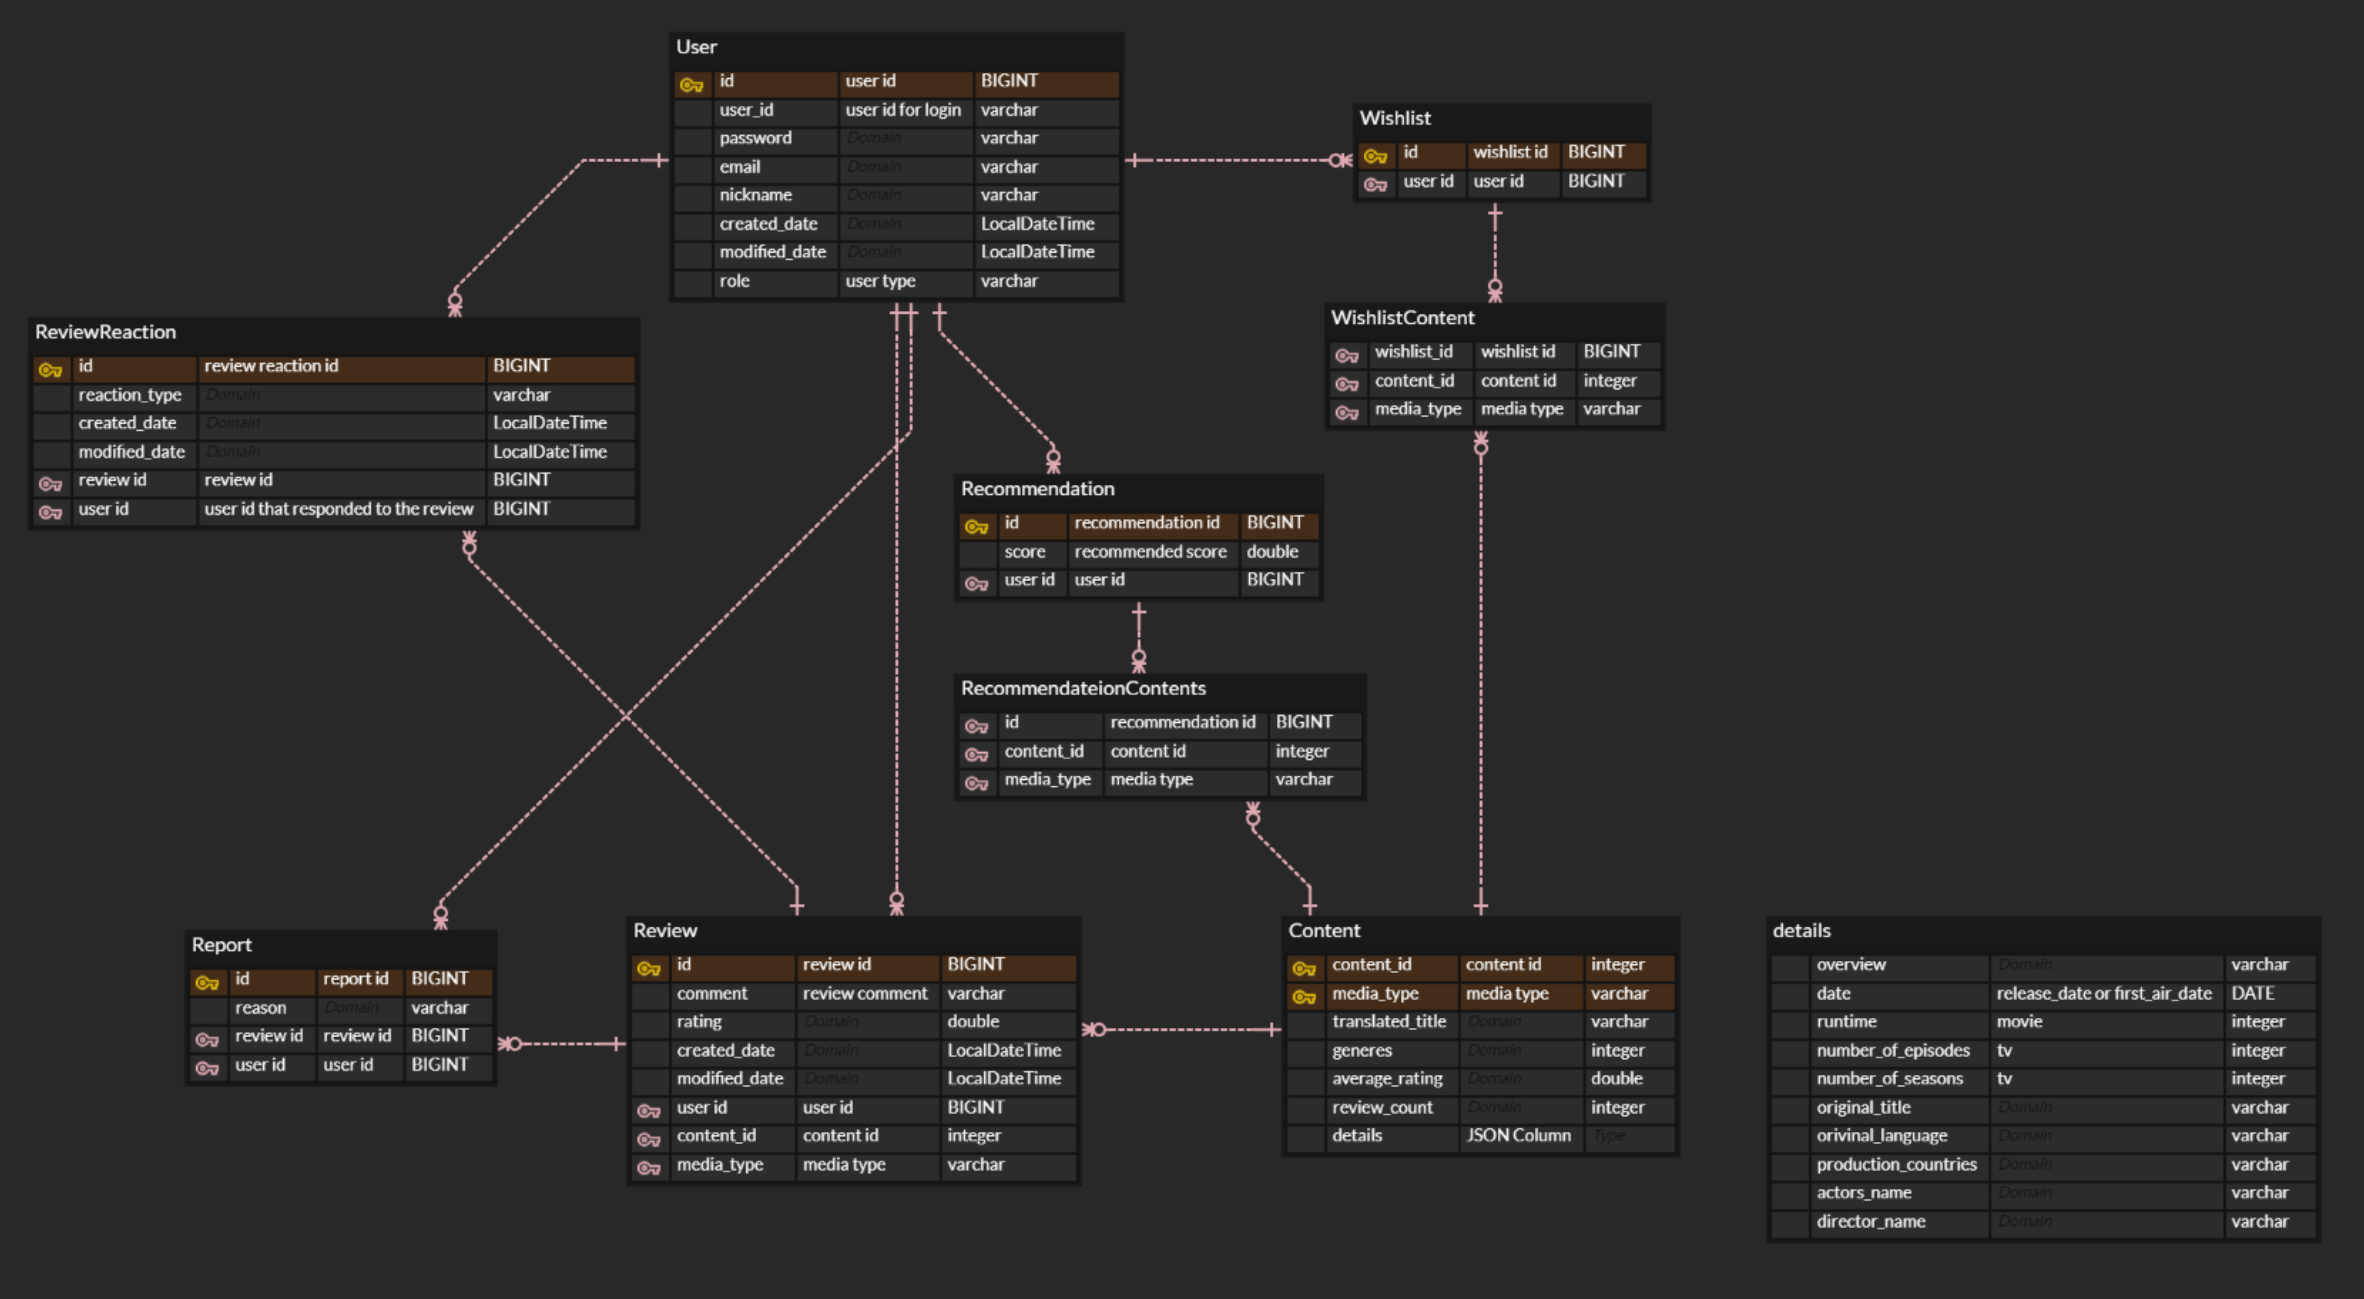
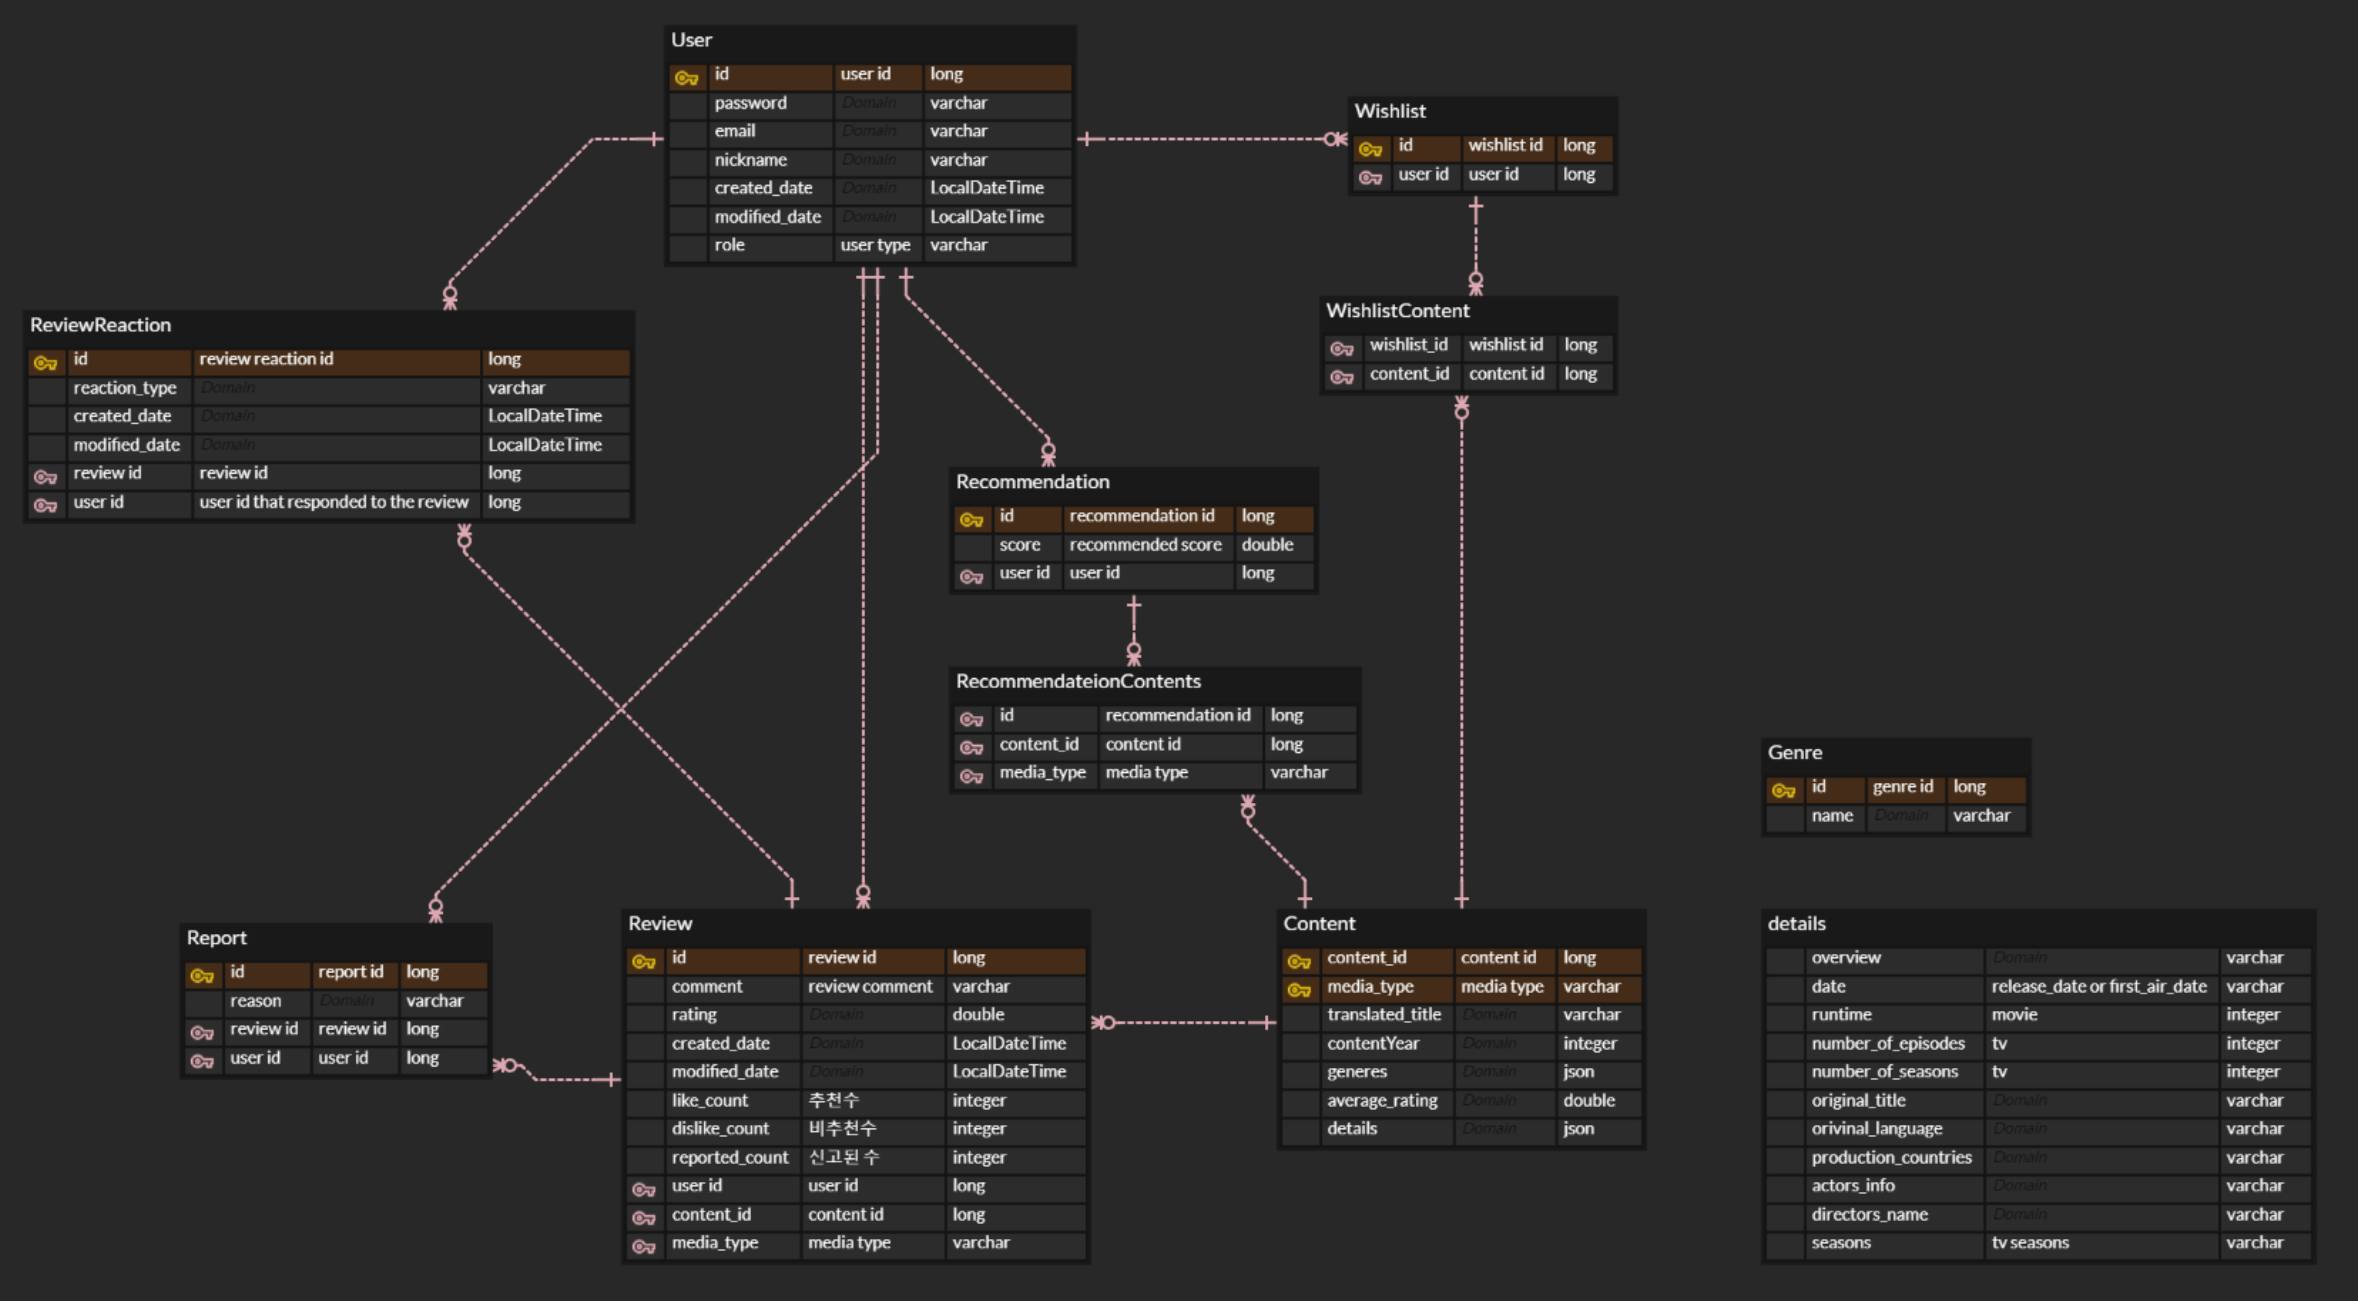
doc: modify README.md, ERD, TROUBLE_SHOOTING.md

diff --git a/README.md b/README.md
@@ -1,5 +1,5 @@
 # Content Service
-드라마, 영화와 같은 컨텐츠 정보 제공, 리뷰 및 평점, 추천 서비스를 제공하는 API
+드라마, 영화와 같은 컨텐츠 정보 제공, 리뷰 및 평점 서비스를 제공하는 API
 
 # 🧑💻Tech Stack
 <img src="https://img.shields.io/badge/java-007396?style=for-the-badge&logo=java&logoColor=white">
@@ -7,41 +7,36 @@
 <img src="https://img.shields.io/badge/springboot-6DB33F?style=for-the-badge&logo=springboot&logoColor=white">
 <img src="https://img.shields.io/badge/github-181717?style=for-the-badge&logo=github&logoColor=white">
 <img src="https://img.shields.io/badge/redis-DC382D?style=for-the-badge&logo=redis&logoColor=white">
-<img src="https://img.shields.io/badge/elasticsearch-005571?style=for-the-badge&logo=elasticsearch&logoColor=white">
 
 # 🗒프로젝트 기능 및 설계
 ### 회원 측 기능
 * [회원가입]
   * 이메일, 아이디, 비밀번호, 닉네임을 입력하여 회원가입합니다.
     * 이메일, 아이디, 닉네임은 유일해야 합니다.
-    * 일반적으로 모든 사용자는 회원가입시 USER 권한(일반 권한)을 지닙니다.
 * [로그인]
   * 사용자는 로그인을 할 수 있습니다. 
     * 회원가입때 사용한 아이디 및 패스워드가 일치해야합니다.
 * [내 정보 수정]
-    * 비밀번호 및 닉네임 변경 
+    * 이메일, 비밀번호, 닉네임 변경 
 * [회원탈퇴]
   * 회원은 계정을 삭제하여 탈퇴 할 수 있습니다.
-    * 회원 탈퇴 시 작성한 리뷰와 평점은 모두 삭제됩니다.
+  * DB에는 정보가 남아있으며 상태만 WITHDRAW로 변경됩니다.
 
 ### 컨텐츠 조회 기능
-* 검색하지 않아도 평점을 기반으로 Top10 목록을 제공합니다.
 * 사용자는 회원가입하지 않아도 리뷰나 평점을 볼 수 있습니다.
 * [컨텐츠 검색]
   * 아래 기준으로 사용자는 컨텐츠를 검색할 수 있습니다.
     * 제목
     * 배우
     * 감독
-    * 장르
 * [컨텐츠 상세 정보 보기]
-  * 컨텐츠 하나에 대한 상세정보를 얻을 수 있습니다. (api에서 가져옵니다)
+  * 컨텐츠 하나에 대한 상세정보를 얻을 수 있습니다.
     * 영화
       * 제목, 원제, 원어, 장르, 간단소개, 개요, 제작 국가, 개봉일, 상영시간
       * 감독 및 배우
     * TV 시리즈
-      * 제목, 원제, 원어, 장르, 간단소개, 개요, 제작 국가, 최초 방영일, 마지막 방영일, 방송사, 에피소드 개수, 시즌 개수
+      * 제목, 원제, 원어, 장르, 간단소개, 개요, 제작 국가, 최초 방영일, 마지막 방영일, 에피소드 개수, 시즌 개수
       * 감독 및 배우
-    * 배우는 상위 다섯 명만 보여줍니다.
 
 ### 보고싶어요 기능
 * 회원이 컨텐츠를 '보고싶어요'하면 wishlist에 담깁니다.
@@ -59,19 +54,21 @@
     * 이미 추천(비추천)한 리뷰를 또 추천(비추천) 한다면 추천(비추천)이 취소됩니다.
 * [리뷰 보기]
   * 사용자는 컨텐츠의 상세정보를 조회시 리뷰도 볼 수 있습니다.
-    * 리뷰는 추천순으로 정렬되며, 5개씩 페이징 처리하여 보여줍니다.
 
 ### 컨텐츠 추천 기능
-* 회원의 컨텐츠 평점 + 보고싶어요한 작품의 장르를 기반으로 컨텐츠를 추천합니다.
-
-### 관리자 측 기능
-* [관리자로 승인 하기]
-  * 초기 관리자는 일반 가입자를 관리자로 승격시킬 수 있습니다.
-* [리뷰 삭제]
-  * 신고가 15건 이상 들어온 리뷰에 대해 삭제할 수 있습니다.
+  * 회원의 컨텐츠 평점 + 보고싶어요한 작품의 장르를 기반으로 컨텐츠를 추천합니다. 
 
 # ERD
 ![erd](/doc/ERD.png)
 
+# API 명세서
+[Postman](https://documenter.getpostman.com/view/27585524/2s9Xy5MAh5)
+
 # Trouble Shooting
 [go to the trouble shooting section](doc/TROUBLE_SHOOTING.md)
+
+# 개선해야하는 점, 느낀점
+* api 에서 값을 받아오고 원하는 형식으로 가공하는 것에 시간을 많이 빼앗겨서 원하는 기능을 다 구현하지 못했습니다.
+* JSON 형식의 데이터를 직렬화, 역직렬화 하는 과정에서 시간이 많이 걸렸지만 그만큼 학습할 수 있었던 계기가 되었습니다.
+* 컨텐츠 상세정보를 저장할 때, 각 객체의 필드가 달라서 고민하였고, JSON 형식으로 저장하는 방법에 대해 학습할 수 있었습니다.
+* 동시성 제어를 위해 비관적 락, 낙관적 락, redisson 락을 학습하였고, 그 중에서 Redisson Lock을 적용해볼 수 있었습니다. 

diff --git a/doc/TROUBLE_SHOOTING.md b/doc/TROUBLE_SHOOTING.md
@@ -1,2 +1,74 @@
 # Trouble Shooting
 프로젝트를 진행하면서 발생한 문제점들과 해결법을 서술합니다.
+
+## Json String to Entity Error
+```
+Caused by: com.fasterxml.jackson.databind.exc.MismatchedInputException:
+Cannot construct instance of ContentDetailDto(although at least one Creator exists):
+no String-argument constructor/factory method to deserialize from String value
+```
+Tmdb Api에서 받은 값을 db에 Json String 형으로 저장해두었는데 이것을 다시 Entity로 변환하면서
+JSON 데이터를 String 값에서 역직렬화하기 위한 생성자나 메서드가 없다는 에러가 발생했습니다.
+
+```java
+@JsonCreator
+public ContentDetailDto(String value) throws JsonProcessingException {
+  ObjectMapper objectMapper = new ObjectMapper();   
+  ContentDetailDto root = objectMapper.readValue(value, ContentDetailDto.class);
+
+  this.originalTitle = root.getOriginalTitle();
+  this.originalLanguage = root.getOriginalLanguage();
+  ...
+}
+```
+
+그래서 이렇게 직접 @JsonCreator 어노테이션을 활용하여 지정해주었더니 db에 저장된 값을 가져올 수 있었습니다.
+
+## EmbeddedId
+컨텐츠의 id는 같지만 mediaType이 다른 경우가 있어서 복합키를 사용해야 했습니다.
+처음에는 단순하게 @Id 어노테이션을 각각의 필드에 붙이면 될거라고 생각했지만 에러가 발생하였고 @EmbeddedId 어노테이션에 
+대해 알게 되었습니다.
+
+@EmbeddedId 어노테이션을 사용하기 위해서는 @Embeddable 어노테이션이 붙어있는 객체가 필요하여 ContentKey 객체를 생성하였고,
+이것을 Content의 PK로 사용하였습니다.
+```java
+public class Content {
+
+  @EmbeddedId
+  private ContentKey contentKey;
+
+}
+```
+
+```java
+@Data
+@Embeddable
+public class ContentKey implements Serializable {
+
+  private long id;
+  private String mediaType;
+
+  public void setIdAndMediaType(long id, String mediaType) {
+    this.id = id;
+    this.mediaType = mediaType;
+  }
+
+}
+```
+
+## 연관관계로 인해 리뷰 삭제 불가능
+```
+Caused by: org.hibernate.exception.ConstraintViolationException: could not execute statement [Cannot delete or update a parent row: a foreign key constraint fails (`content`.`report`, CONSTRAINT `FKmcui10qh03nnf6h3glch6pvmy` FOREIGN KEY (`review_id`) REFERENCES `review` (`id`))] [delete from review where id=?]
+```
+추천/비추천과 신고가 있는 리뷰를 삭제하려고 하였더니 당연하게도 위의 에러가 발생하였습니다.
+
+```java
+@OneToMany(mappedBy = "review", cascade = CascadeType.ALL, orphanRemoval = true)
+private List<ReviewReaction> reactions;
+
+@OneToMany(mappedBy = "review", cascade = CascadeType.ALL, orphanRemoval = true)
+private List<ReviewReport> reports;
+```
+@OneToMany 어노테이션을 이용해 관련 데이터를 연결하고, CasecadeType.ALL로 설정하여 부모 엔티티의 모든 변경과 삭제가
+자식 엔티티에 전파되도록 하였고, orphanRemoval = truel로 설정하여 부모 엔티티에서 자식 엔티티가 제거될 때, 
+해당 자식 엔티티를 데이터베이스에서도 삭제하도록 하였습니다.
